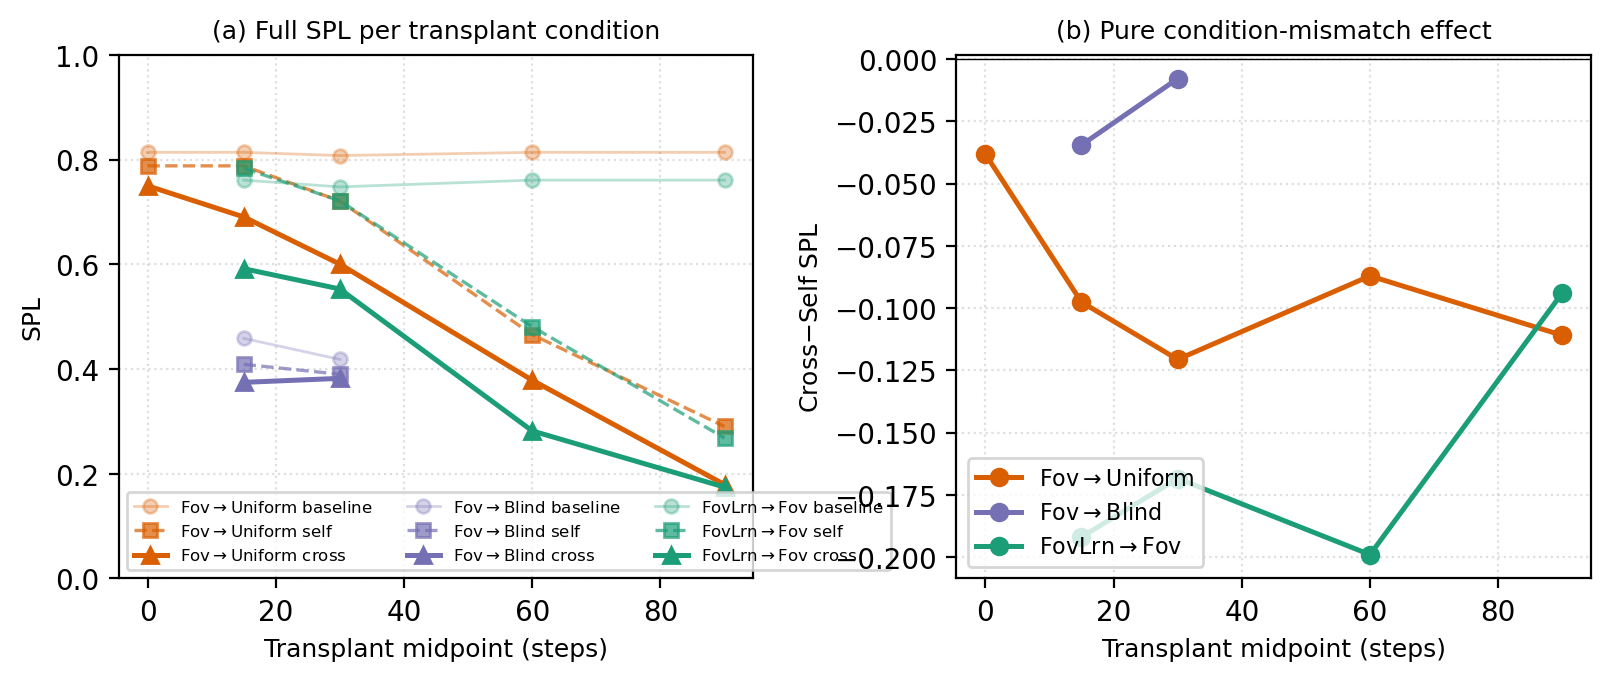
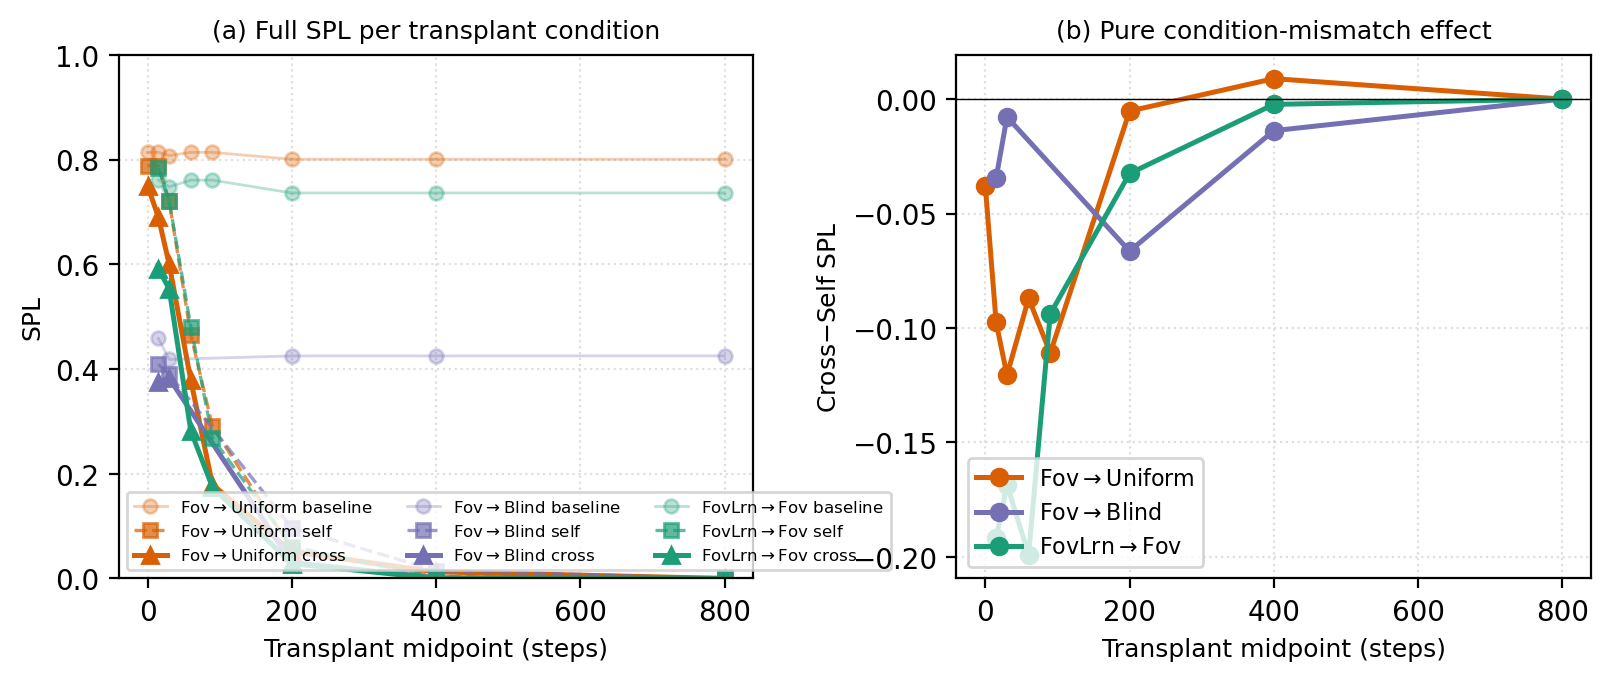
(b2-A) Late-midpoint transplant: extend supp Fig 8 to t=800, update §3.2 footnote
Late-midpoint data (mid200/400/800) for 3 representative pairs was on
Izar; copied locally and figure script auto-picked them up (data/transplant
is .gitignored, kept locally only).

Findings now visible across {0, 15, 30, 60, 90, 200, 400, 800}:
- Cross-self gap PEAKS in t ∈ [30, 90] window — where agent has integrated
  history but not yet committed to a trajectory
- Decays toward 0 at t ≥ 400 — policy is committed by then
- t=0 collapses to protocol-noise floor

Updated:
- §3.2 pendnote: substantive characterisation of midpoint behaviour
  ('gap peaks in [30,90]... decays toward 0 at t≥400') replaces the
  weaker 'later midpoints not yet measured'
- Fig 8 caption: full sweep description, explicit 'neither t=30-specific
  artefact nor late-midpoint inflation' verdict

Resolves §3.2 fn5 / MASTER_TRACK §3.0b O3.
t=30 is now a *justified* choice, not just a single design pick.

diff --git a/docs/NeurIPS_2026/neurips_2026.tex b/docs/NeurIPS_2026/neurips_2026.tex
@@ -123,7 +123,7 @@ The five visual conditions (Figure~\ref{fig:setup}): \emph{blind} (no visual inp
 
 After training, all weights are frozen. We collect per-step top-layer LSTM hidden states ($512$-d) paired with ground-truth labels from $n{=}500$ Gibson held-out episodes under \emph{deterministic} argmax-action rollouts (matching our shortcut / transplant / standard eval protocols; the alternative stochastic protocol gives trivial $\sim 4$-step rollouts and is documented in Appendix~\ref{app:probing-details}).\pendnote{We probe top-layer hidden state $\mathbf{h}_2$ in the main results because it is what the (linear) policy head reads. The cell state $\mathbf{c}_t$, lower-layer hidden states ($\mathbf{h}_0, \mathbf{h}_1$), and pre-LSTM concat vector are not probed in main figures (Figure~\ref{fig:h1_mega}c shows GPS at $\mathbf{h}_0/\mathbf{h}_1/\mathbf{h}_2$ as a single-fit per-condition layout but not the full per-condition CKA / transplant / shortcut machinery). If condition-specific structure lives in $\mathbf{c}_t$ or earlier layers but not $\mathbf{h}_2$, the H2 ``disjoint subspaces'' claim would extend or weaken accordingly.} We train Ridge probes ($\alpha=10$) with episode-level 5-fold cross-validation, report mean $\pm \sigma$ across folds, and verify probe specificity with Hewitt--Liang label-permutation selectivity~\citep{hewitt2019control}. Probed variables: GPS position, compass heading, distance-to-goal, lag-$k$ path history ($k \in \{0, \ldots, 20\}$), visited-region occupancy, full occupancy grid, per-unit spatial information, ego-frame goal vector. For H2 representational geometry we additionally use linear CKA~\citep{kornblith2019cka} and cross-condition probe transfer.
 
-We complement probes with two interventions on the LSTM state. \emph{Memory transplant}: paste a donor's hidden state into the recipient at step $30$ and compare baseline / self-transplant / cross-transplant SPL across $150$ episodes per pair.\pendnote{Transplant midpoint $t{=}30$ is a single design choice. The supplementary midpoint sweep across $\{0, 15, 30, 60, 90\}$ steps (Figure~\ref{fig:transplant_sweep_supp}) shows the cross-self gap is roughly stable for $t \geq 15$, so the asymmetry pattern we report is not specific to $t{=}30$; later midpoints (e.g.\ $t \geq 100$) are not yet measured, and earlier midpoints ($t < 15$) collapse to a protocol-noise floor.} \emph{Shortcut discovery}: run paired same-scene-different-goal episodes ($20$ scenes $\times$ $10$ pairs) and compare second-episode SPL under reset vs.\ persistent LSTM. For foveated (fix), all analyses use ckpt.36 at $\sim$174M frames (last clean intermediate before the silent-corruption window).
+We complement probes with two interventions on the LSTM state. \emph{Memory transplant}: paste a donor's hidden state into the recipient at step $30$ and compare baseline / self-transplant / cross-transplant SPL across $150$ episodes per pair.\pendnote{Transplant midpoint $t{=}30$ is a single design choice. The supplementary midpoint sweep across $\{0, 15, 30, 60, 90, 200, 400, 800\}$ steps (Figure~\ref{fig:transplant_sweep_supp}) shows the cross-self gap peaks in the $t \in [30, 90]$ window (where mismatch most matters --- the agent has integrated some history but is not yet committed) and decays toward 0 at late midpoints ($t \geq 400$, where the policy is already committed to its trajectory). Earlier midpoints ($t < 15$) collapse to a protocol-noise floor.} \emph{Shortcut discovery}: run paired same-scene-different-goal episodes ($20$ scenes $\times$ $10$ pairs) and compare second-episode SPL under reset vs.\ persistent LSTM. For foveated (fix), all analyses use ckpt.36 at $\sim$174M frames (last clean intermediate before the silent-corruption window).
 
 
 \section{Results}
@@ -367,7 +367,7 @@ Using a recurrent (LSTM) PointNav agent as a controlled case study, a five-condi
 \begin{figure}[h]
 \centering
 \includegraphics[width=0.95\linewidth]{fig/transplant_sweep.pdf}
-\caption{Memory-transplant midpoint sweep on three representative donor$\to$recipient pairs (foveated$\to$uniform, foveated$\to$blind, foveated (learned)$\to$foveated) across midpoints $\{0, 15, 30, 60, 90\}$ time-steps ($n{=}100$--$150$ episodes/cell). The full $5{\times}5$ matrix in Figure~\ref{fig:h2} (right) is at midpoint $t{=}30$; this supplementary figure shows that the cross-self gap is roughly stable for $t \geq 15$ and that the $t{=}0$ self-/cross- baseline collapses to a protocol-noise floor (so the diagonal in Figure~\ref{fig:h2} is correctly read as ``rollout-divergence noise'' rather than ``condition-mismatch noise''). Foveated (learned)$\to$foveated incurs $-0.17$ SPL on average across $t \geq 15$, foveated$\to$uniform $-0.10$, foveated$\to$blind $-0.02$, consistent with the asymmetry pattern in the full matrix.}
+\caption{Memory-transplant midpoint sweep on three representative donor$\to$recipient pairs (foveated$\to$uniform, foveated$\to$blind, foveated (learned)$\to$foveated) across midpoints $\{0, 15, 30, 60, 90, 200, 400, 800\}$ time-steps ($n{=}100$--$150$ episodes/cell). The full $5{\times}5$ matrix in Figure~\ref{fig:h2} (right) is at midpoint $t{=}30$. \emph{(a):} full SPL per condition --- baseline / self / cross. The $t{=}0$ self/cross collapse to a protocol-noise floor (so the diagonal in Figure~\ref{fig:h2} is correctly read as rollout-divergence noise, not condition mismatch); SPL decays for all conditions at $t \geq 200$ because by then most successful episodes have already terminated, leaving only long atypical episodes. \emph{(b):} cross-minus-self isolates condition-mismatch alone. The gap peaks in the $t \in [30, 90]$ window --- where the agent has integrated history but is not yet committed to a trajectory --- and decays toward $0$ at $t \geq 400$. The asymmetry pattern reported at $t{=}30$ in Figure~\ref{fig:h2} is therefore neither a $t{=}30$-specific artefact nor a late-midpoint inflation.}
 \label{fig:transplant_sweep_supp}
 \end{figure}
 